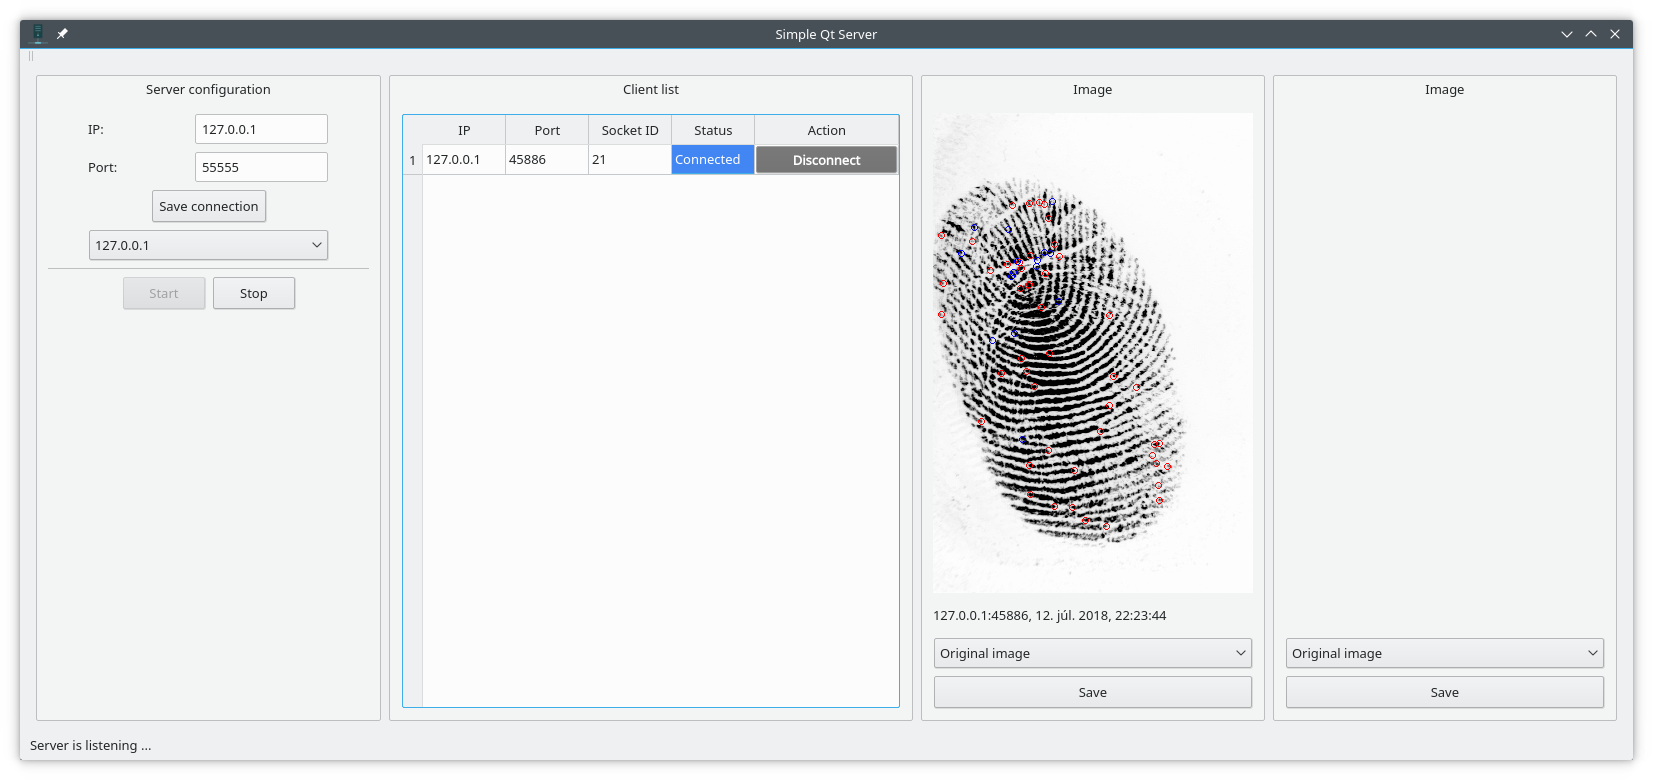
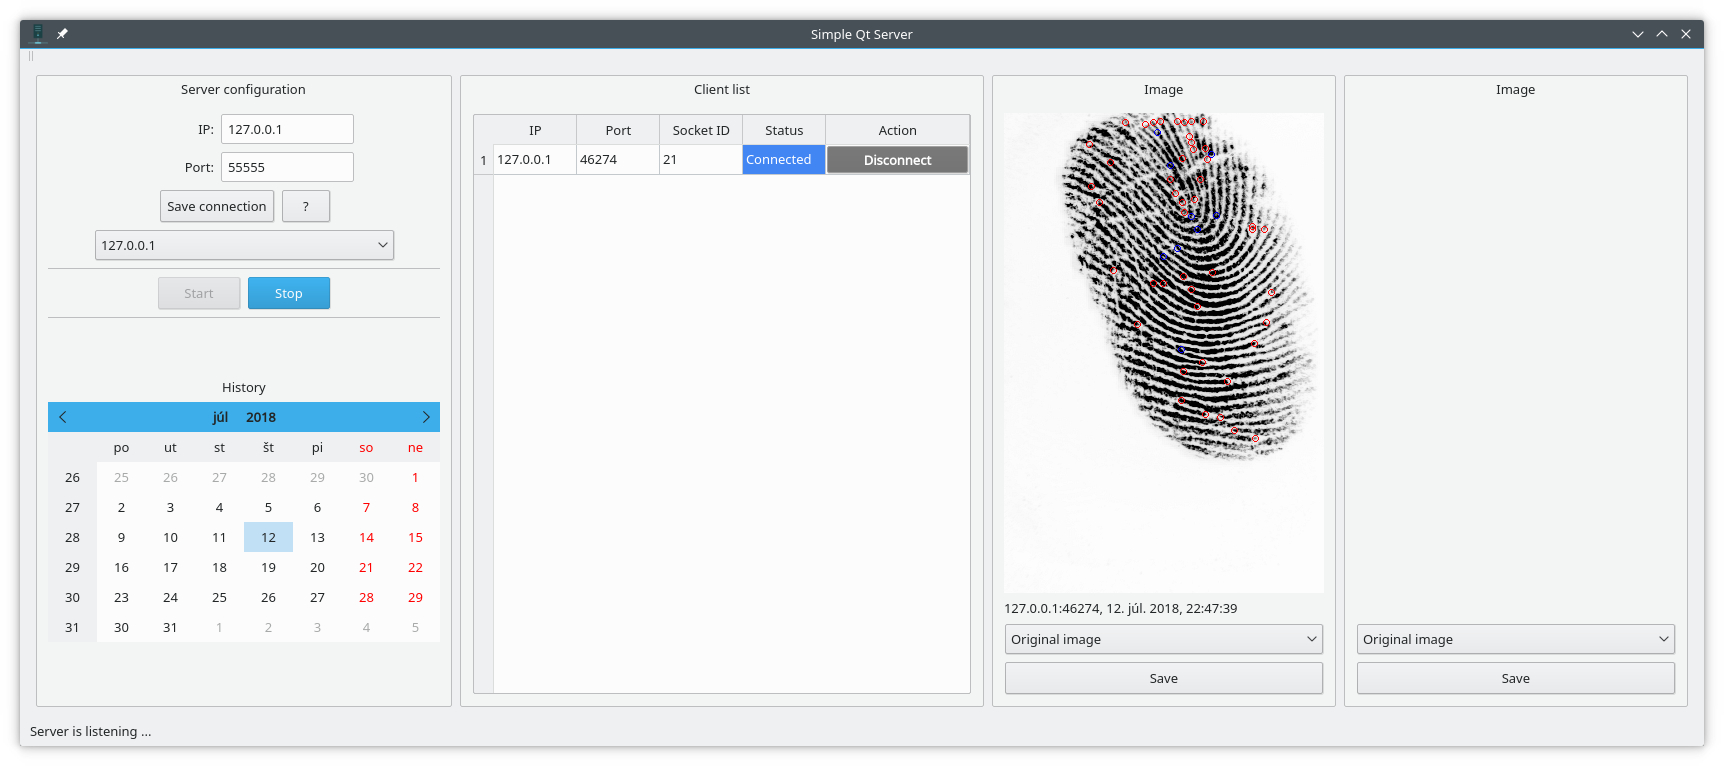
Minor GUI enhancements.

diff --git a/server.h b/server.h
@@ -9,6 +9,7 @@
 #include <QFileDialog>
 #include <QDateTime>
 #include <QTableWidget>
+#include <QMessageBox>
 
 // DBOX modules
 #include "preprocessing.h"
@@ -55,6 +56,8 @@ private slots:
     void on_save_image_button2_clicked();
 
     void on_comboBox_activated(const QString &arg1);
+
+    void on_save_conn_help_clicked();
 
 private:
     Ui::Server *ui;

diff --git a/server.cpp b/server.cpp
@@ -328,3 +328,8 @@ void Server::on_comboBox_activated(const QString &arg1)
 {
     ui->server_ip->setText(arg1);
 }
+
+void Server::on_save_conn_help_clicked()
+{
+    QMessageBox::about(this,"Help", "<b>Help</b> goes <a href='www.google.com'>here</a>.<br>Sample list:<ul><li>First</li><li>Second</li></ul>");
+}
